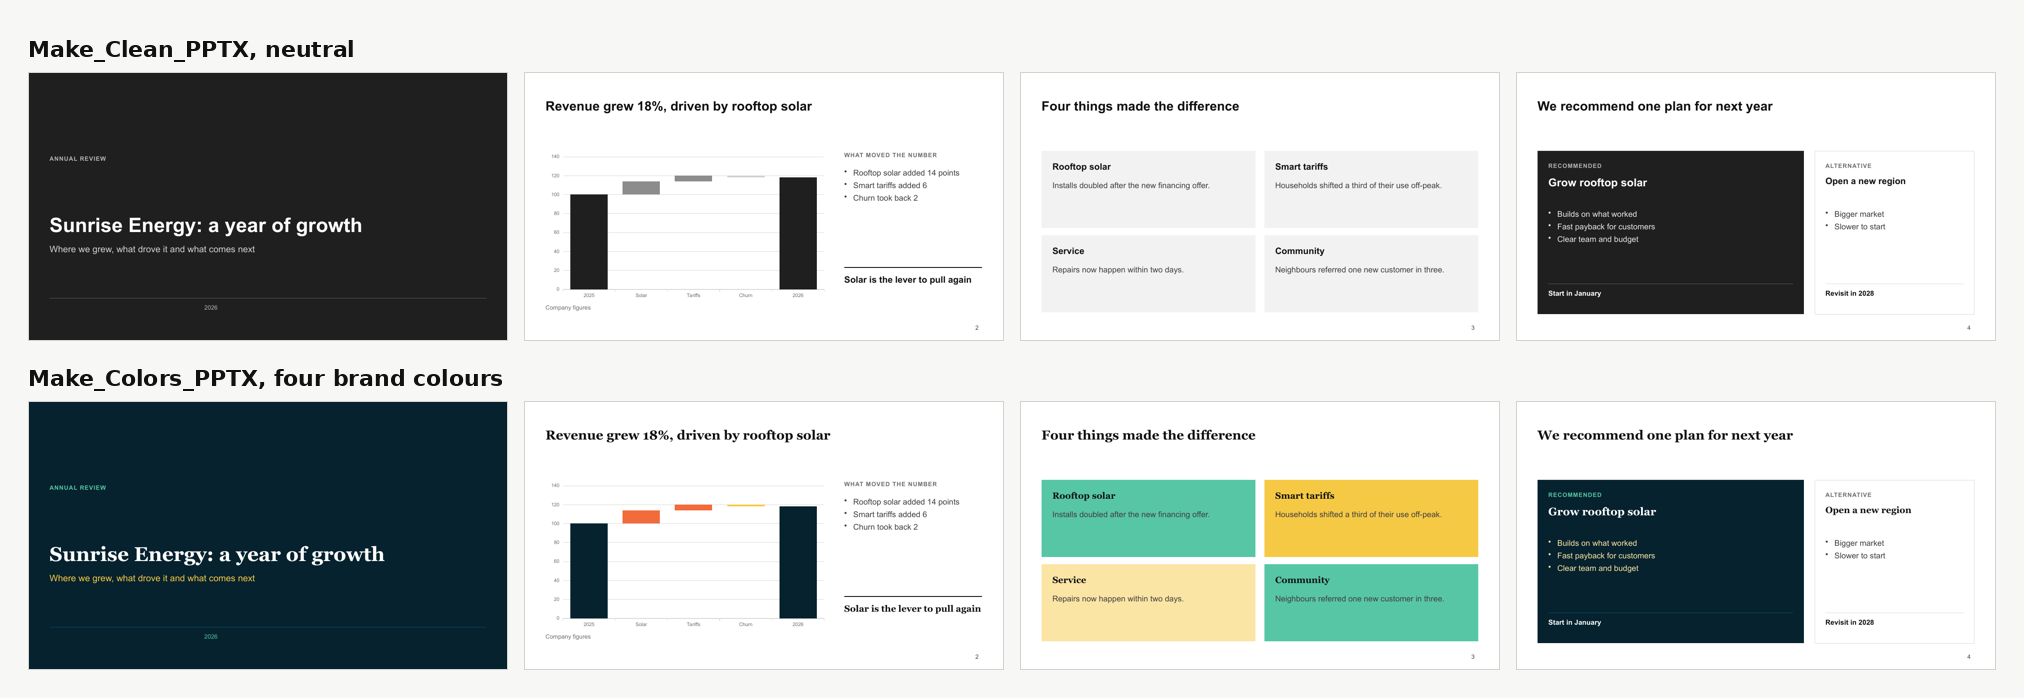
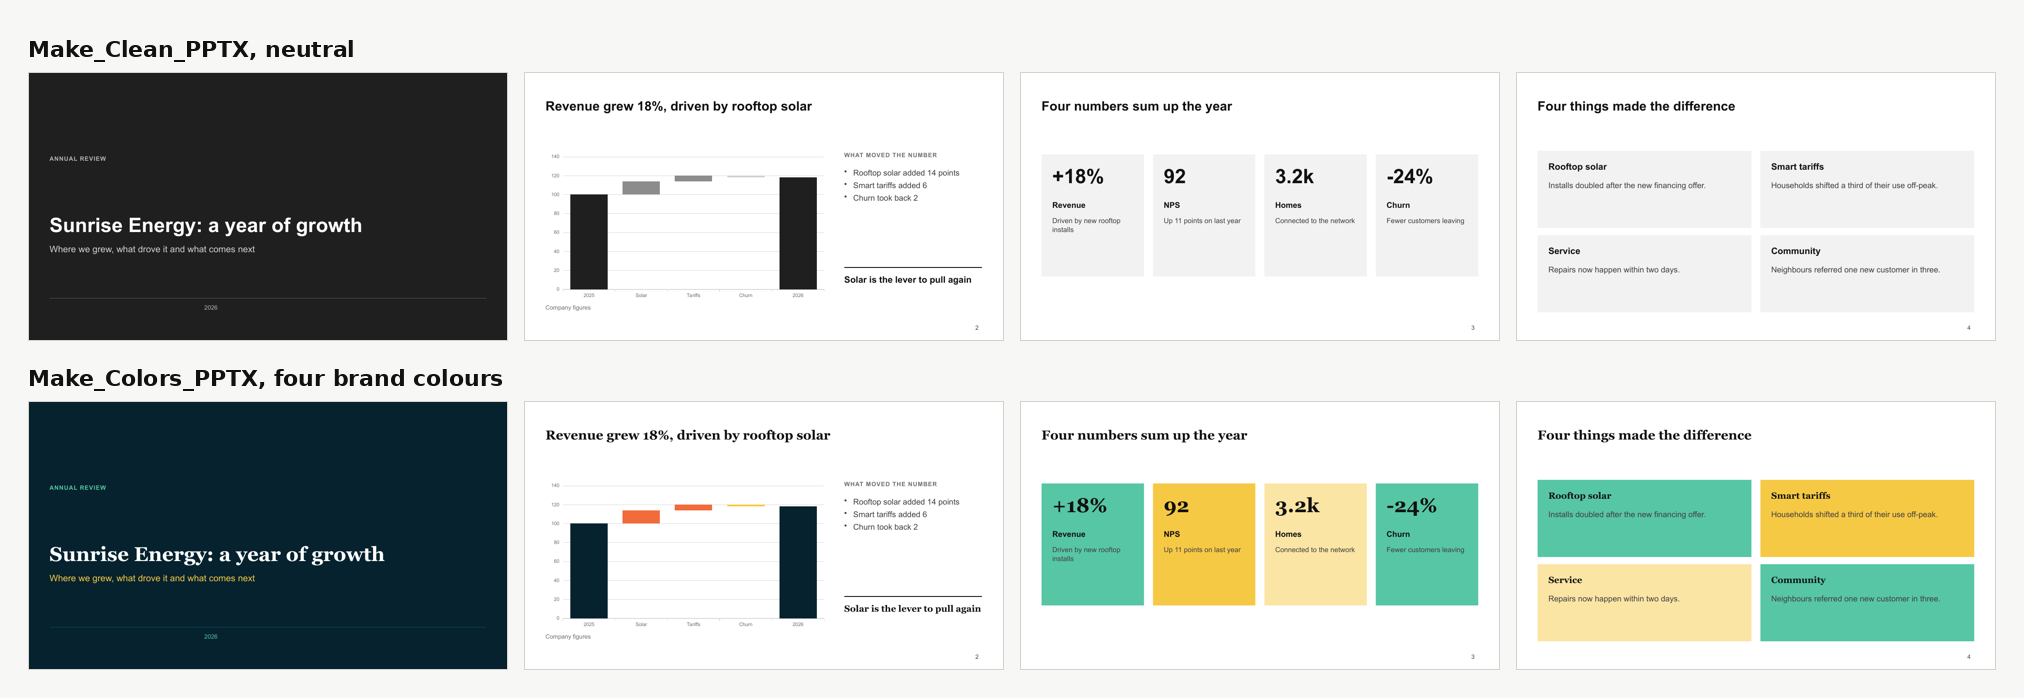
Colour example with the KPI cards coloured; note on emphasis (#26)
Claude-Session: https://claude.ai/code/session_01QPUPqDhtEz8aEj1BePEj1H

diff --git a/skills/make-colors-pptx/SKILL.md b/skills/make-colors-pptx/SKILL.md
@@ -73,7 +73,7 @@ Keep the working files (roles file, check and preview images, the dark variant u
 Hand over the theme files with their full paths (in harnesses with an outputs folder, save them there), the preview image, and two or three sentences: the colours and fonts used, anything that changed from the brand guide and why, and how to use the theme:
 - in Make_Clean_PPTX: `"theme": "brand/<name>.potx"` and `"logo": "brand/logo.png"` in deck.json;
 - on a deck that is already built (also after Make_Style_PPTX, in any order): `python3 scripts/apply_theme.py deck.pptx --theme brand/<name>.potx` writes `deck-<name>.pptx` and never touches the original; slides, shapes and their names stay as they are;
-- for a bolder result on a deck that is already built: add `--expressive` to `apply_theme.py`. Sibling cards, callouts and panels then take different brand accents instead of all sitting on the grey surface, each one chosen so its text stays readable. Offer it when the request asks for a creative, colourful or bold look; the default stays the plain theme.
+- for a bolder result on a deck that is already built: add `--expressive` to `apply_theme.py`. Sibling cards, callouts and panels then take different brand accents instead of all sitting on the grey surface, each one chosen so its text stays readable. Offer it when the request asks for a creative, colourful or bold look; the default stays the plain theme. Do not combine it with the `emphasis` key of Make_Clean_PPTX on the same deck: an accent-coloured figure cannot be read on another accent, so the cards that hold figures stay grey.
 - in PowerPoint: *Design → Themes → Browse for Themes*, choose the `.potx`.
 
 ## Reviewing a branded deck
